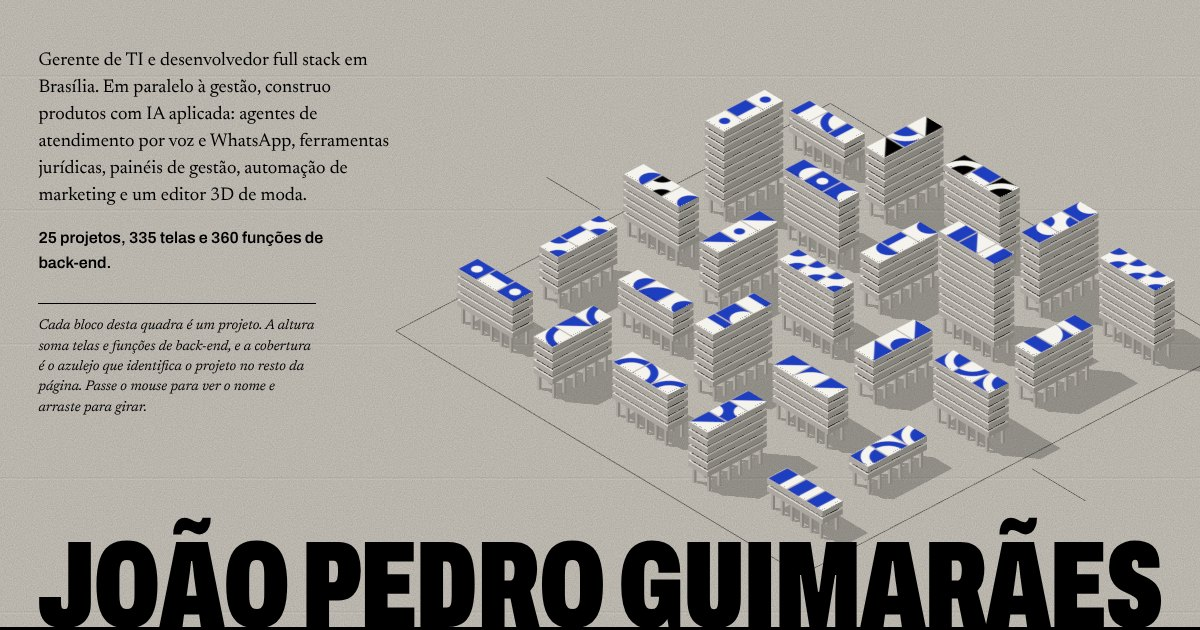
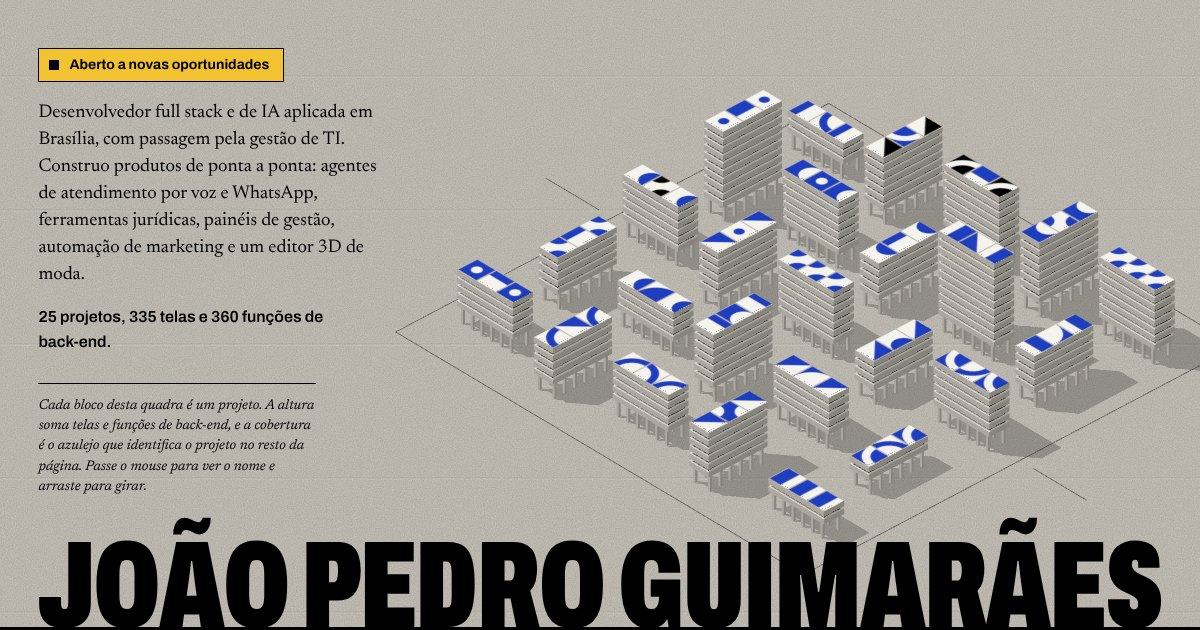
Reposiciona o perfil: ex-gerente de TI, aberto a novas oportunidades

diff --git a/public/index.html b/public/index.html
@@ -4,11 +4,11 @@
   <meta charset="utf-8">
   <meta name="viewport" content="width=device-width, initial-scale=1">
   <title>João Pedro Guimarães — Portfólio</title>
-  <meta name="description" content="Gerente de TI e desenvolvedor full stack em Brasília. 25 projetos de software com IA aplicada: atendimento por voz e WhatsApp, jurídico, gestão, marketing e 3D.">
+  <meta name="description" content="Desenvolvedor full stack e de IA aplicada em Brasília, com passagem pela gestão de TI. 25 projetos de software: atendimento por voz e WhatsApp, jurídico, gestão, marketing e 3D. Aberto a novas oportunidades.">
   <meta name="theme-color" content="#C9C5BC">
   <meta property="og:type" content="website">
   <meta property="og:title" content="João Pedro Guimarães — Portfólio">
-  <meta property="og:description" content="25 projetos de software com IA aplicada, construídos por um gerente de TI e desenvolvedor full stack de Brasília.">
+  <meta property="og:description" content="25 projetos de software com IA aplicada, construídos por um desenvolvedor full stack de Brasília com passagem pela gestão de TI.">
   <meta property="og:image" content="https://joaopedroguimaraes.pages.dev/og.jpg">
   <meta property="og:url" content="https://joaopedroguimaraes.pages.dev/">
   <link rel="canonical" href="https://joaopedroguimaraes.pages.dev/">
@@ -43,7 +43,8 @@
     <section class="hero" id="topo" aria-labelledby="nome">
       <div class="city" id="city"></div>
       <div class="hero-copy">
-        <p class="hero-lede">Gerente de TI e desenvolvedor full stack em Brasília. Em paralelo à gestão, construo produtos com IA aplicada: agentes de atendimento por voz e WhatsApp, ferramentas jurídicas, painéis de gestão, automação de marketing e um editor 3D de moda.</p>
+        <a class="disponivel" href="#contato">Aberto a novas oportunidades</a>
+        <p class="hero-lede">Desenvolvedor full stack e de IA aplicada em Brasília, com passagem pela gestão de TI. Construo produtos de ponta a ponta: agentes de atendimento por voz e WhatsApp, ferramentas jurídicas, painéis de gestão, automação de marketing e um editor 3D de moda.</p>
         <p class="hero-count"><span data-total="projetos">25</span> projetos, <span data-total="telas">335</span> telas e <span data-total="funcoes">360</span> funções de <span class="nowrap">back-end</span>.</p>
         <p class="hero-caption" id="city-caption">Cada bloco desta quadra é um projeto. A altura soma telas e funções de back-end, e a cobertura é o azulejo que identifica o projeto no resto da página. <span class="only-pointer">Passe o mouse para ver o nome e arraste para girar.</span><span class="only-touch">Toque num bloco para ver o nome; toque de novo para abrir o projeto.</span></p>
       </div>
@@ -91,13 +92,13 @@
     <section class="sec sobre" id="sobre" aria-labelledby="sobre-t">
       <header class="sec-head">
         <h2 id="sobre-t">Sobre</h2>
-        <p class="dek">Ciência da Computação no UDF, 4º semestre. Gestão de TI no dia a dia, produto e código no resto do tempo.</p>
+        <p class="dek">Ciência da Computação no UDF, 4º semestre. Da assistência à gerência de TI e, agora, dedicado a construir produtos.</p>
       </header>
 
       <div class="sobre-grid">
         <div class="sobre-text">
-          <p class="sobre-lead">Comecei no suporte, como assistente de TI. Passei a coordenar a área e hoje sou gerente de TI, responsável pela operação e pela equipe técnica.</p>
-          <p>Em paralelo, desenvolvo produtos de software de forma independente: mais de vinte aplicações full stack, quase todas com inteligência artificial aplicada a um problema real, como classificação automática de documentos, RAG, análise de conversas em tempo real e automação de atendimento.</p>
+          <p class="sobre-lead">Comecei no suporte, como assistente de TI, passei a coordenar a área e cheguei à gerência, responsável pela operação e pela equipe técnica.</p>
+          <p>Em paralelo, fui construindo produtos de software por conta própria: mais de vinte aplicações full stack, quase todas com inteligência artificial aplicada a um problema real, como classificação automática de documentos, RAG, análise de conversas em tempo real e automação de atendimento. Hoje me dedico a isso e procuro uma vaga ou projeto como desenvolvedor full stack e de IA aplicada.</p>
           <p>Gosto de começar pelo documento de produto. Cada projeto nasce de um PRD, passa por fluxos de usuário e protótipo e só então vira código, com banco de dados, funções serverless e testes. A gestão me ensinou a pensar em quem vai usar o sistema na segunda-feira de manhã; o código me deixa resolver isso com as próprias mãos.</p>
         </div>
         <aside class="trajetoria" aria-labelledby="traj-t">
@@ -105,7 +106,8 @@
           <ol>
             <li><span class="step" aria-hidden="true">1</span><span>Assistente de TI</span></li>
             <li><span class="step" aria-hidden="true">2</span><span>Coordenador de TI</span></li>
-            <li class="atual"><span class="step" aria-hidden="true">3</span><span>Gerente de TI <em>cargo atual</em></span></li>
+            <li><span class="step" aria-hidden="true">3</span><span>Gerente de TI</span></li>
+            <li class="atual"><span class="step" aria-hidden="true">4</span><span>Desenvolvedor full stack e IA aplicada <em>próximo passo, aberto a oportunidades</em></span></li>
           </ol>
         </aside>
       </div>
@@ -160,6 +162,7 @@
 
     <section class="sec contato" id="contato" aria-labelledby="contato-t">
       <h2 id="contato-t">Vamos conversar</h2>
+      <p class="contato-dek">Estou aberto a novas oportunidades, em vaga ou projeto, como desenvolvedor full stack e de IA aplicada.</p>
       <a class="contato-mail" id="contato-mail" href="mailto:pedro.derek@icloud.com">pedro.derek@icloud.com</a>
       <ul class="contato-links" id="contato-links"></ul>
     </section>

diff --git a/public/assets/css/style.css b/public/assets/css/style.css
@@ -238,6 +238,26 @@ p { margin: 0; }
   padding: clamp(24px, 4vw, 56px) var(--gutter) 0;
   max-width: calc(36ch + 2 * var(--gutter));
 }
+.disponivel {
+  display: inline-flex;
+  align-items: center;
+  gap: 10px;
+  margin-bottom: 18px;
+  padding: 8px 14px 9px 10px;
+  background: var(--ipe);
+  border: var(--rule-fina);
+  font: 700 var(--t-14) / 1.1 var(--sans);
+  text-decoration: none;
+  pointer-events: auto;
+}
+.disponivel::before {
+  content: "";
+  width: 10px;
+  height: 10px;
+  background: var(--nanquim);
+}
+.disponivel:hover { background: var(--nanquim); color: var(--ipe); }
+.disponivel:hover::before { background: var(--ipe); }
 .hero-lede {
   font-size: clamp(var(--t-18), 1.55vw, var(--t-24));
   line-height: 1.45;
@@ -760,6 +780,12 @@ p { margin: 0; }
   font-size: clamp(4rem, 13vw, 12.5rem);
   line-height: 0.8;
   margin-left: -0.03em;
+}
+.contato-dek {
+  max-width: 40ch;
+  margin-top: clamp(20px, 2.6vw, 32px);
+  font-size: clamp(var(--t-18), 1.6vw, var(--t-24));
+  line-height: 1.4;
 }
 .contato-mail {
   display: inline-block;
